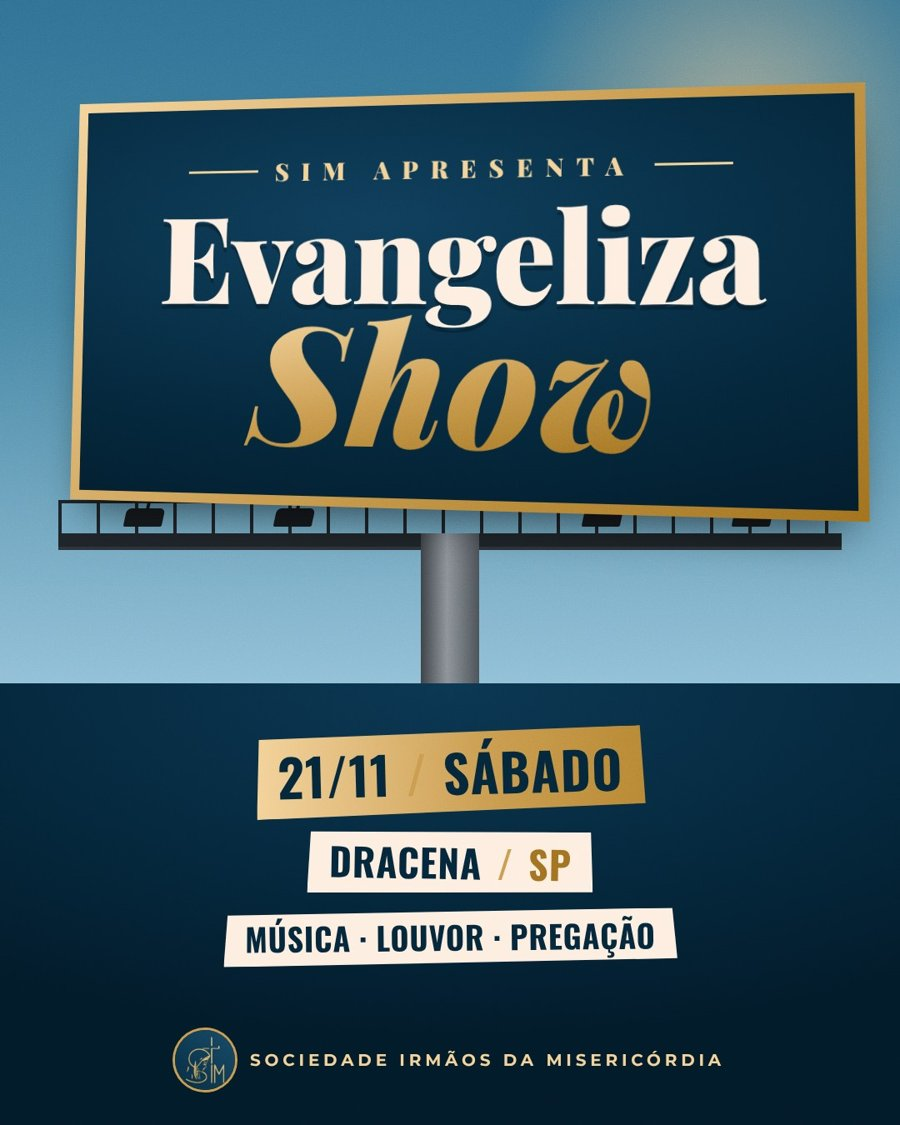
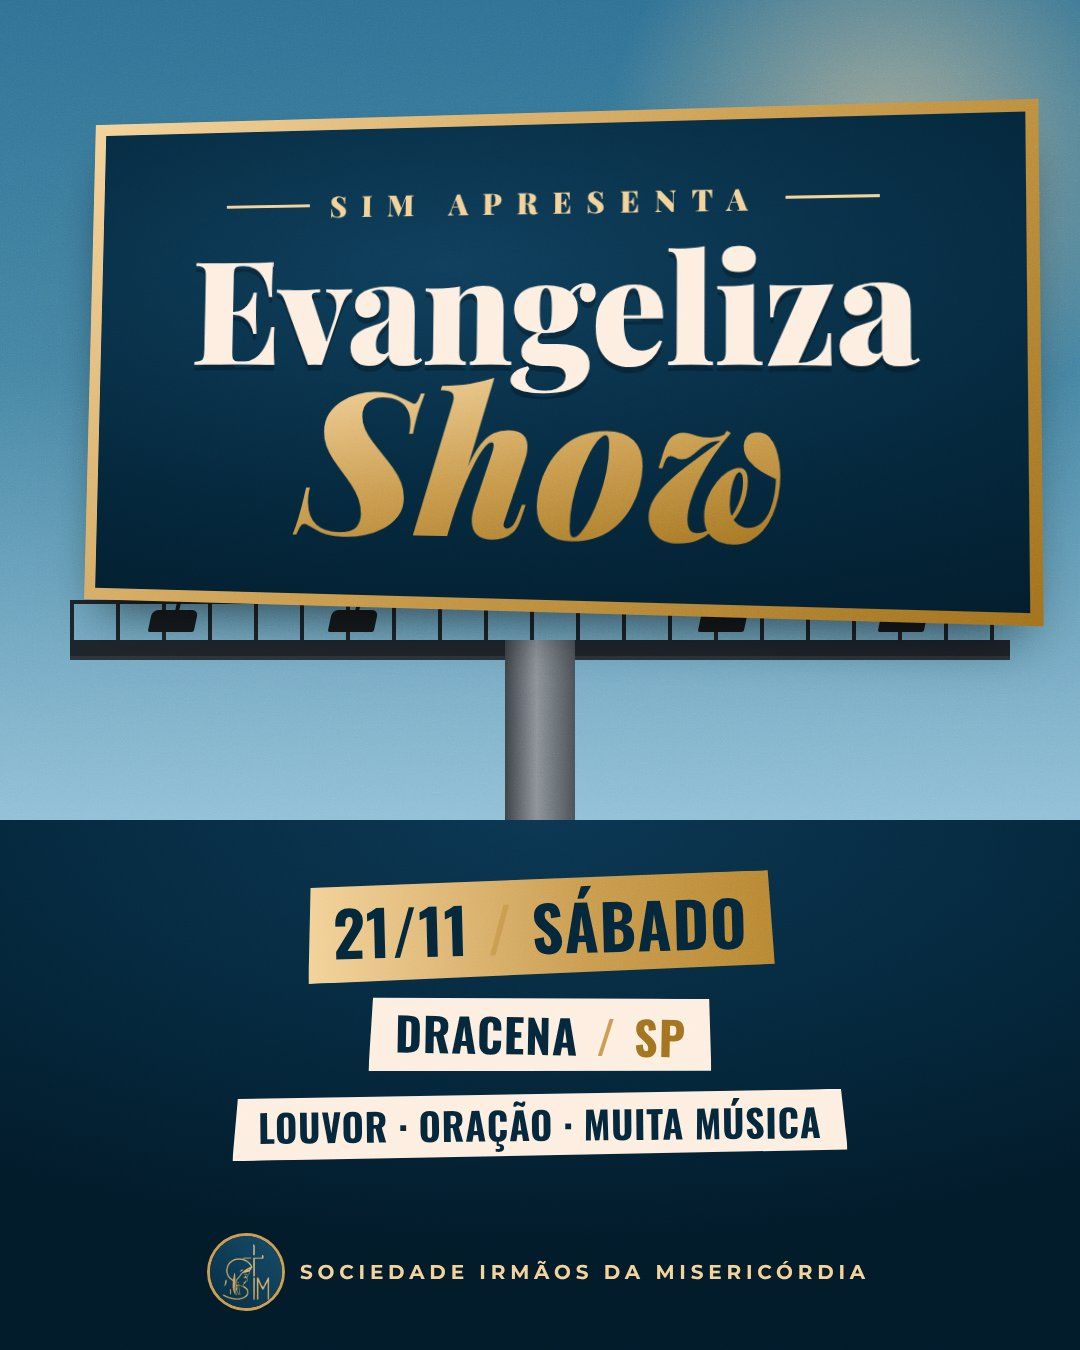
Evangelizashow: louvor, oração e muita música
Claude-Session: https://claude.ai/code/session_01FbCrHFBteKdzqYMDJGtW6G

Changed region(s): [[0.2178, 0.8089, 0.8089, 0.8711]]

diff --git a/site/index.html b/site/index.html
@@ -265,7 +265,7 @@
       <div class="grade-ev">
         <a class="ev" href="#">
           <div class="capa"><img src="img/evangelizashow.jpg" alt="Evangelizashow" loading="lazy"><span class="data">21 NOV</span></div>
-          <div class="info"><h3>Evangelizashow</h3><p>Música, louvor e pregação em Dracena.</p><span class="mais">Saiba mais →</span></div>
+          <div class="info"><h3>Evangelizashow</h3><p>Louvor, oração e muita música em Dracena.</p><span class="mais">Saiba mais →</span></div>
         </a>
         <a class="ev" href="#">
           <div class="capa"><img src="img/kairos.jpg" alt="Kairós — Alcançados pela Misericórdia" loading="lazy"><span class="data">30 ANOS</span></div>
